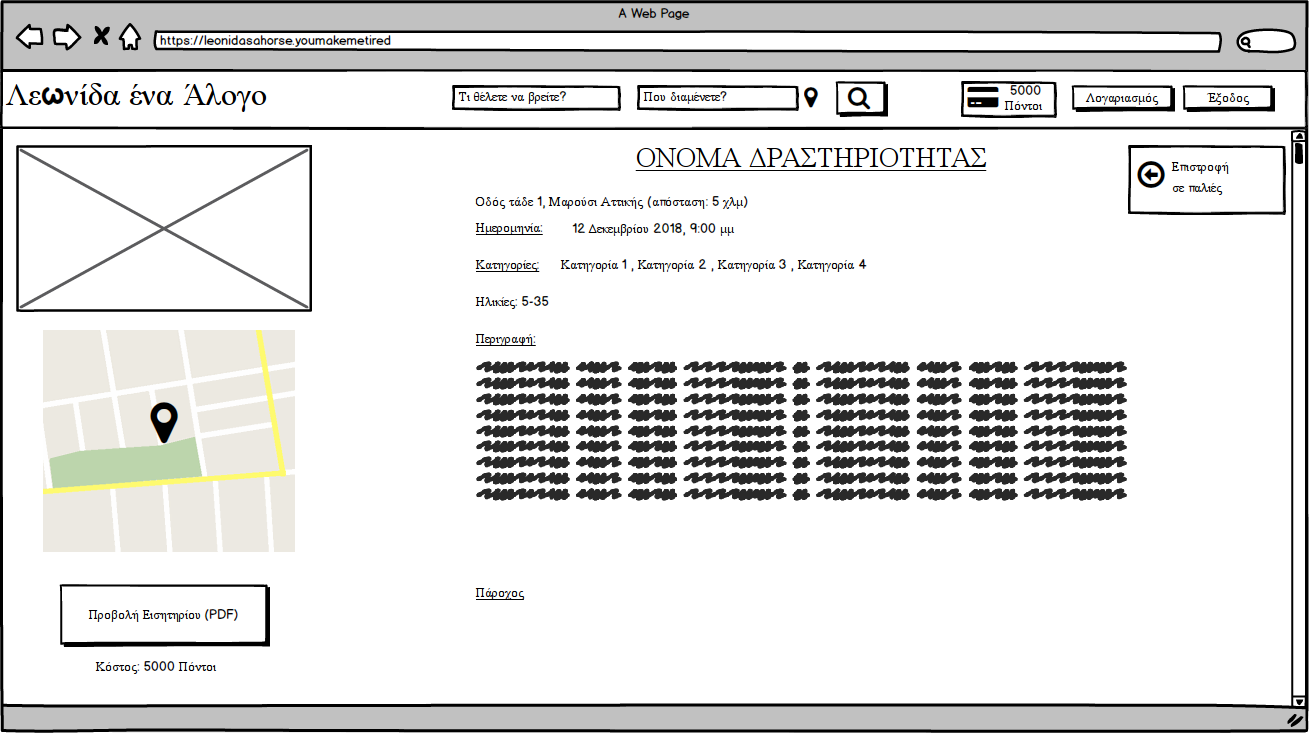
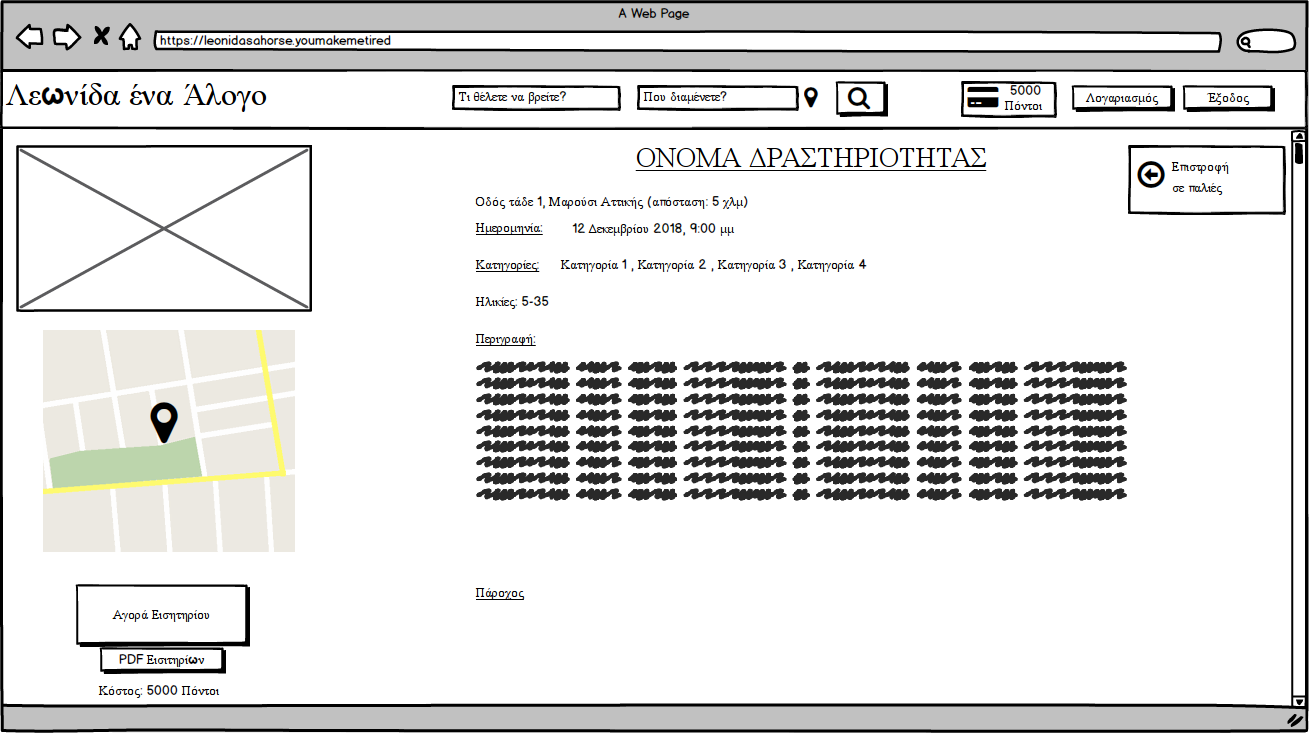
2ο Παραδοτέο - Διεπαφές και Wireframes Γέμισμα του κεφαλαίου σχετικά με διεπαφές και τα wireframes συν μερικές ανανεωμένες εικόνες από τα wireframes

Changed region(s): [[0.0306, 0.7804, 0.2139, 0.9604]]

diff --git a/business/2nd.md b/business/2nd.md
@@ -80,3 +80,81 @@ pop-up πάνω από τη σελίδα της εφαρμογής.
 Ένας εγγεγραμμένος χρήστης μπορεί να επιλέξει να εισέλθει στην υπηρεσία με τον λογαριασμό του από το κουμπί εισόδου που βρίσκεται δίπλα στο
 κουμπί εγγραφής. Σε αυτή την περίπτωση θα εμφανιστεί ένα pop-up στο οποίο θα μπορεί να βάλει τα στοιχεία του αλλά και τον τύπο λογαριασμού
 με τον οποίο επιθυμεί να εισέλθει.
+
+![Αναζητηση ανώνυμος είσοδος popup user](pngs/%CE%91%CE%BD%CE%B1%CE%B6%CE%AE%CF%84%CE%B7%CF%83%CE%B7%20%CE%B1%CE%BD%CF%8E%CE%BD%CF%85%CE%BC%CE%BF%CF%82%20%CE%B5%CE%AF%CF%83%CE%BF%CE%B4%CE%BF%CF%82%20popup%20user.png)
+
+Όταν ο χρήστης εισέλθει στην υπηρεσία σαν γονέας, οι επιλογές στα δεξιά της μπάρας αλλάζουν ανάλογα. Για τον χρήστη, προστίθεται η δυνατότητα να μεταβεί στον λογασιασμό του, να δει το ποσό του πορτοφολιού του και να προσθέσει χρήματα σε αυτό.
+
+Η αρχική σελίδα όταν ο χρήστης εισέλθει ως γονέας:
+
+![Αρχική Σελίδα user](pngs/%CE%91%CF%81%CF%87%CE%B9%CE%BA%CE%AE%20%CF%83%CE%B5%CE%BB%CE%AF%CE%B4%CE%B1%20user.png)
+
+Η σελίδα εισαγωγής πόντων στο πορτοφόλι:
+
+![Πορτοφόλι](pngs/%CE%A0%CE%BF%CF%81%CF%84%CE%BF%CF%86%CF%8C%CE%BB%CE%B9.png)
+
+Η αναζήτηση του γονέα είναι λειτουργικά σχεδόν ίδια με την αναζήτηση του ανώνυμου χρήστη. Η διαφορά είναι πως όταν ο γονέας βλέπει λεπτομέρειες μιας 
+δραστηριότητας, του παρέχεται η επιλογή να αγοράσει εισητήριο για την δραστηριόητα αυτή, αν δεν έχει αγοράσει ήδη. Αν έχει αγοράσει εισιτήριο για την δραστηριότητα, του παρέχεται η δυνατότητα να εκτυπώσει το εισιτήριό του - ή τα εισιτήριά του, αν έχει ολοκληρώσει πολλαπλές αγορές - με τα εισιτήρια να
+παρουσιάζονται σε μορφή PDF.
+
+![Σελίδα Δραστηριότητας μετά την αγορά user](pngs/%CE%A3%CE%B5%CE%BB%CE%AF%CE%B4%CE%B1%20%CE%94%CF%81%CE%B1%CF%83%CF%84%CE%B7%CF%81%CE%B9%CF%8C%CF%84%CE%B7%CF%84%CE%B1%CF%82%20%CE%BC%CE%B5%CF%84%CE%AC%20%CF%84%CE%B7%CE%BD%20%CE%B1%CE%B3%CE%BF%CF%81%CE%AC%20user.png)
+
+Ο Γονέας μπορεί εν συνεχεία να εισέλθει στον λογαριασμό του, ο οποίος αποτελείται από τρία μέρη, τα Στοιχεία Γονέα, τις Τρέχουσες Δραστηριότητες και τις Παλιές δραστηριότητες.
+
+Στα Στοιχεία Γονέα, ο γονέας μπορεί να δει τα στοιχεία του καθώς επίσης και να αλλάξει μερικά από αυτά όπως επιτρέπει η εφαρμογή.
+
+![Λογαριασμός Χρήστη Στοιχεία Γονέα](pngs/%CE%9B%CE%BF%CE%B3%CE%B1%CF%81%CE%B9%CE%B1%CF%83%CE%BC%CF%8C%CF%82%20%CE%A7%CF%81%CE%AE%CF%83%CF%84%CE%B7%20%CE%A3%CF%84%CE%BF%CE%B9%CF%87%CE%B5%CE%AF%CE%B1.png)
+![Λογαριασμός Χρήστη Στοιχεία Γονέα Αλλαγή Διεύθυνσης popup](pngs/%CE%9B%CE%BF%CE%B3%CE%B1%CF%81%CE%B9%CE%B1%CF%83%CE%BC%CF%8C%CF%82%20%CE%A7%CF%81%CE%AE%CF%83%CF%84%CE%B7%20%CE%A3%CF%84%CE%BF%CE%B9%CF%87%CE%B5%CE%AF%CE%B1%20%CE%91%CE%BB%CE%BB%CE%B1%CE%B3%CE%AE%20%CE%94%CE%B9%CE%B5%CF%8D%CE%B8%CF%85%CE%BD%CF%83%CE%B7%CF%82%20popup.png)
+![Λογαριασμός Χρήστη Στοιχεία Γονέα Αλλαγή Τηλεφώνου popup](pngs/%CE%9B%CE%BF%CE%B3%CE%B1%CF%81%CE%B9%CE%B1%CF%83%CE%BC%CF%8C%CF%82%20%CE%A7%CF%81%CE%AE%CF%83%CF%84%CE%B7%20%CE%A3%CF%84%CE%BF%CE%B9%CF%87%CE%B5%CE%AF%CE%B1%20%CE%91%CE%BB%CE%BB%CE%B1%CE%B3%CE%AE%20%CE%A4%CE%B7%CE%BB%CE%B5%CF%86%CF%8E%CE%BD%CE%BF%CF%85%20popup.png)
+![Λογαριασμός Χρήστη Στοιχεία Γονέα Αλλαγή Κωδικού popup](pngs/%CE%9B%CE%BF%CE%B3%CE%B1%CF%81%CE%B9%CE%B1%CF%83%CE%BC%CF%8C%CF%82%20%CE%A7%CF%81%CE%AE%CF%83%CF%84%CE%B7%20%CE%A3%CF%84%CE%BF%CE%B9%CF%87%CE%B5%CE%AF%CE%B1%20%CE%91%CE%BB%CE%BB%CE%B1%CE%B3%CE%AE%20%CE%9A%CF%89%CE%B4%CE%B9%CE%BA%CE%BF%CF%8D%20popup.png)
+
+
+Στις Τρέχουσες Δραστηριότητες, ο Γονέας μπορεί να δει μια λίστα με τις δραστηριότητες για τις οποίες έχει αγοράσει εισιτήριο και οι οποίες δεν έχουν ολοκληρωθεί, ώστε να μπορεί εύκολα να τις βρει και να περιηγηθεί σε αυτές. Αντίστοιχα, στις παλιές δραστηριότητες βρίσκονται οι δραστηριότητες για τις οποίες ο χρήστης έχει αγοράσει εισιτήριο και έχουν ολοκληρωθεί. Η λίστα των δραστηριοτήτων και στις δύο περιπτώσεις είναι όμοιες με τις δραστηριότητες στην αναζήτηση.
+
+![Λογαριασμός Χρήστη Τρέχουσες Δραστηριότητες](pngs/%CE%9B%CE%BF%CE%B3%CE%B1%CF%81%CE%B9%CE%B1%CF%83%CE%BC%CF%8C%CF%82%20%CE%A7%CF%81%CE%AE%CF%83%CF%84%CE%B7%20%CE%A4%CF%81%CE%AD%CF%87%CE%BF%CF%85%CF%83%CE%B5%CF%82%20%CE%94%CF%81%CE%B1%CF%83%CF%84%CE%B7%CF%81%CE%B9%CF%8C%CF%84%CE%B7%CF%84%CE%B5%CF%82.png)
+
+![Λογαριασμός Χρήστη Παλιές Δραστηριότητες](pngs/%CE%9B%CE%BF%CE%B3%CE%B1%CF%81%CE%B9%CE%B1%CF%83%CE%BC%CF%8C%CF%82%20%CE%A7%CF%81%CE%AE%CF%83%CF%84%CE%B7%20%CE%A0%CE%B1%CE%BB%CE%B9%CE%AD%CF%82%20%CE%94%CF%81%CE%B1%CF%83%CF%84%CE%B7%CF%81%CE%B9%CF%8C%CF%84%CE%B7%CF%84%CE%B5%CF%82.png)
+
+Με το κουμπί Εξόδου, ο χρήστης βγαίνει από την εφαρμογή ως εγγεγραμμένος χρήστης και επιστρέφει στην περιήγηση ως ανώνυμος χρήστης.
+
+Αν ο χρήστης εισέλθει στην υπηρεσία ως πάροχος, έχει τη δυνατότητα να κάνει αναζήτηση δραστηριοτήτων με τον ίδιο τρόπο που θα έκανε και ο ανώνυμος χρήστης, ή να εισέλθει στο πάνελ παρόχου για να διαχειριστεί τον λογαριασμό του και τις δραστηριότητες που του ανήκουν.
+
+Η αρχική σελίδα του παρόχου:
+
+![Αρχική Σελίδα Πάροχος](pngs/%CE%91%CF%81%CF%87%CE%B9%CE%BA%CE%AE%20%CF%83%CE%B5%CE%BB%CE%AF%CE%B4%CE%B1%20%CF%80%CE%AC%CF%81%CE%BF%CF%87%CE%BF%CF%82.png)
+
+Στο πάνελ παρόχου υπάρχουν τρεις διαθέσιμες κατηγορίες, τα στοιχεία παρόχου, οι ενεργές δραστηριότητες, και οι ολοκληρωμένες δραστηριότητες, καθώς επίσης και ένα κουμπί που κατευθύνει τον πάροχο σε μια σελίδα δημιουργίας δραστηριότητας.
+
+Στα στοιχεία παρόχου, αντίστοιχα με τον χρήστη, ο πάροχος μπορεί να δει τα προσωπικά του στοιχεία και να αλλάξει κάποια από αυτά εφόσον η εφαρμογή το επιτρέπει:
+
+![Πάνελ Παρόχου Στοιχεία](pngs/%CE%A0%CE%AC%CE%BD%CE%B5%CE%BB%20%CF%80%CE%B1%CF%81%CF%8C%CF%87%CE%BF%CF%85%20%CE%A3%CF%84%CE%BF%CE%B9%CF%87%CE%B5%CE%AF%CE%B1.png)
+
+![Πάνελ Παρόχου Στοιχεία Αλλαγή Διεύθυνσης](pngs/%CE%A0%CE%AC%CE%BD%CE%B5%CE%BB%20%CF%80%CE%B1%CF%81%CF%8C%CF%87%CE%BF%CF%85%20%CE%A3%CF%84%CE%BF%CE%B9%CF%87%CE%B5%CE%AF%CE%B1%20%CE%91%CE%BB%CE%BB%CE%B1%CE%B3%CE%AE%20%CE%94%CE%B9%CE%B5%CF%8D%CE%B8%CF%85%CE%BD%CF%83%CE%B7%CF%82.png)
+
+![Πάνελ Παρόχου Στοιχεία Αλλαγή email](pngs/%CE%A0%CE%AC%CE%BD%CE%B5%CE%BB%20%CF%80%CE%B1%CF%81%CF%8C%CF%87%CE%BF%CF%85%20%CE%A3%CF%84%CE%BF%CE%B9%CF%87%CE%B5%CE%AF%CE%B1%20%CE%91%CE%BB%CE%BB%CE%B1%CE%B3%CE%AE%20email.png)
+
+![Πάνελ Παρόχου Στοιχεία αλλαγή κωδικού](pngs/%CE%A0%CE%AC%CE%BD%CE%B5%CE%BB%20%CF%80%CE%B1%CF%81%CF%8C%CF%87%CE%BF%CF%85%20%CE%A3%CF%84%CE%BF%CE%B9%CF%87%CE%B5%CE%AF%CE%B1%20%CE%91%CE%BB%CE%BB%CE%B1%CE%B3%CE%AE%20%CE%BA%CF%89%CE%B4%CE%B9%CE%BA%CE%BF%CF%8D.png)
+
+![Πάνελ Παρόχου Στοιχεία αλλαγή τηλεφώνου](pngs/%CE%A0%CE%AC%CE%BD%CE%B5%CE%BB%20%CF%80%CE%B1%CF%81%CF%8C%CF%87%CE%BF%CF%85%20%CE%A3%CF%84%CE%BF%CE%B9%CF%87%CE%B5%CE%AF%CE%B1%20%CE%91%CE%BB%CE%BB%CE%B1%CE%B3%CE%AE%20%CE%A4%CE%B7%CE%BB%CE%B5%CF%86%CF%8E%CE%BD%CE%BF%CF%85.png)
+
+Το πάνελ για δημιουργία δραστηριότητας:
+
+![Πάνελ Παρόχου Δημιουργία Δραστηριότητας](pngs/%CE%A0%CE%AC%CE%BD%CE%B5%CE%BB%20%CE%A0%CE%B1%CF%81%CF%8C%CF%87%CE%BF%CF%85%20%CE%94%CE%B7%CE%BC%CE%B9%CE%BF%CF%85%CF%81%CE%B3%CE%AF%CE%B1%20%CE%94%CF%81%CE%B1%CF%83%CF%84%CE%B7%CF%81%CE%B9%CF%8C%CF%84%CE%B7%CF%84%CE%B1%CF%82.png)
+
+Οι ενεργές δραστηριότητες στο πάνελ παρόχου αντιστοιχούν στις δραστηριότητες που έχει δημιουργήσει ο πάροχος και οι οποίες δεν έχουν ακόμη ολοκληρωθεί. Ο πάροχος μπορείς να περιηγηθεί σε αυτές και, επειδή δεν έχουν ολοκληρωθεί, μπορεί να μεταβάλλει τα στοιχεία τους αν το επιθυμεί. Το γραφικό περιβάλλον για την μεταβολλή των στοιχείων μιας δραστηριότητας είναι παρόμοιο με αυτό για τη δημιουργία νέας δραστηριότητας.
+
+![Πάνελ Παρόχου Ενεργές Δραστηριότητες](pngs/%CE%A0%CE%AC%CE%BD%CE%B5%CE%BB%20%CF%80%CE%B1%CF%81%CF%8C%CF%87%CE%BF%CF%85%20%CE%95%CE%BD%CE%B5%CF%81%CE%B3%CE%AD%CF%82%20%CE%94%CF%81%CE%B1%CF%83%CF%84%CE%B7%CF%81%CE%B9%CF%8C%CF%84%CE%B7%CF%84%CE%B5%CF%82.png)
+
+![Πάνελ Παρόχου Ενεργή Δραστηριότητα](pngs/%CE%A0%CE%AC%CE%BD%CE%B5%CE%BB%20%CE%A0%CE%B1%CF%81%CF%8C%CF%87%CE%BF%CF%85%20%CE%95%CE%BD%CE%B5%CF%81%CE%B3%CE%AE%20%CE%94%CF%81%CE%B1%CF%83%CF%84%CE%B7%CF%81%CE%B9%CF%8C%CF%84%CE%B7%CF%84%CE%B1.png)
+
+![Πάνελ Παρόχου Ενεργή Δραστηριότητα Εισιτήρια](pngs/%CE%A0%CE%AC%CE%BD%CE%B5%CE%BB%20%CE%A0%CE%B1%CF%81%CF%8C%CF%87%CE%BF%CF%85%20%CE%95%CE%BD%CE%B5%CF%81%CE%B3%CE%AE%20%CE%94%CF%81%CE%B1%CF%83%CF%84%CE%B7%CF%81%CE%B9%CF%8C%CF%84%CE%B7%CF%84%CE%B1%20%CE%95%CE%B9%CF%83%CE%B9%CF%84%CE%AE%CF%81%CE%B9%CE%B1.png)
+
+![Πάνελ Παρόχου Ενεργή Δραστηριότητα Τροποποίηση](pngs/%CE%A0%CE%AC%CE%BD%CE%B5%CE%BB%20%CE%A0%CE%B1%CF%81%CF%8C%CF%87%CE%BF%CF%85%20%CE%A4%CF%81%CE%BF%CF%80%CE%BF%CF%80%CE%BF%CE%AF%CE%B7%CF%83%CE%B7%20%CE%95%CE%BD%CE%B5%CF%81%CE%B3%CE%AE%20%CE%94%CF%81%CE%B1%CF%83%CF%84%CE%B7%CF%81%CE%B9%CF%8C%CF%84%CE%B7%CF%84%CE%B1.png)
+
+Η κατηγορία των Ολοκληρωμένων Δραστηριοτήτων είναι όμοια με την κατηγορία των ενεργών, αλλά προφανώς χωρις να δίνει στον πάροχο τη δυνατότητα αλλαγής των στοιχείων της ολοκληρωμένης δραστηριότητας.
+
+Τέλος, αν ο χρήστης θέλει να εισέλθει στην υηρεσία σαν εγγεγραμμένο μέλος αλλά έχει ξεχάσει τον κωδικό του, μπορεί να πατήσει τον αντίστοιχο σύνδεσμο στο pop-up εισόδου χρήστη και θα ανακατευθυνθεί σε κατάλληλη σελίδα όπου μπορεί να επιλέξει τον ρόλο του, να εισάγει το e-mail που σχετίζεται με τον λογαριασμό του και να πατήσει το κουμπί επιβεβαίωσης ώστε να αποσταλεί στο e-mail του μήνυμα με οδηγίες για την αποκατάσταση του κωδικού του.
+
+![Ανάκτηση κωδικού user](pngs/%CE%91%CE%BD%CE%AC%CE%BA%CF%84%CE%B7%CF%83%CE%B7%20%CE%9A%CF%89%CE%B4%CE%B9%CE%BA%CE%BF%CF%8D%20user.png)
+
+![Ανάκτηση κωδικού επιβεβαίωση](pngs/%CE%91%CE%BD%CE%AC%CE%BA%CF%84%CE%B7%CF%83%CE%B7%20%CE%9A%CF%89%CE%B4%CE%B9%CE%BA%CE%BF%CF%8D%20%CE%95%CF%80%CE%B9%CE%B2%CE%B5%CE%B2%CE%B1%CE%AF%CF%89%CF%83%CE%B7.png)
